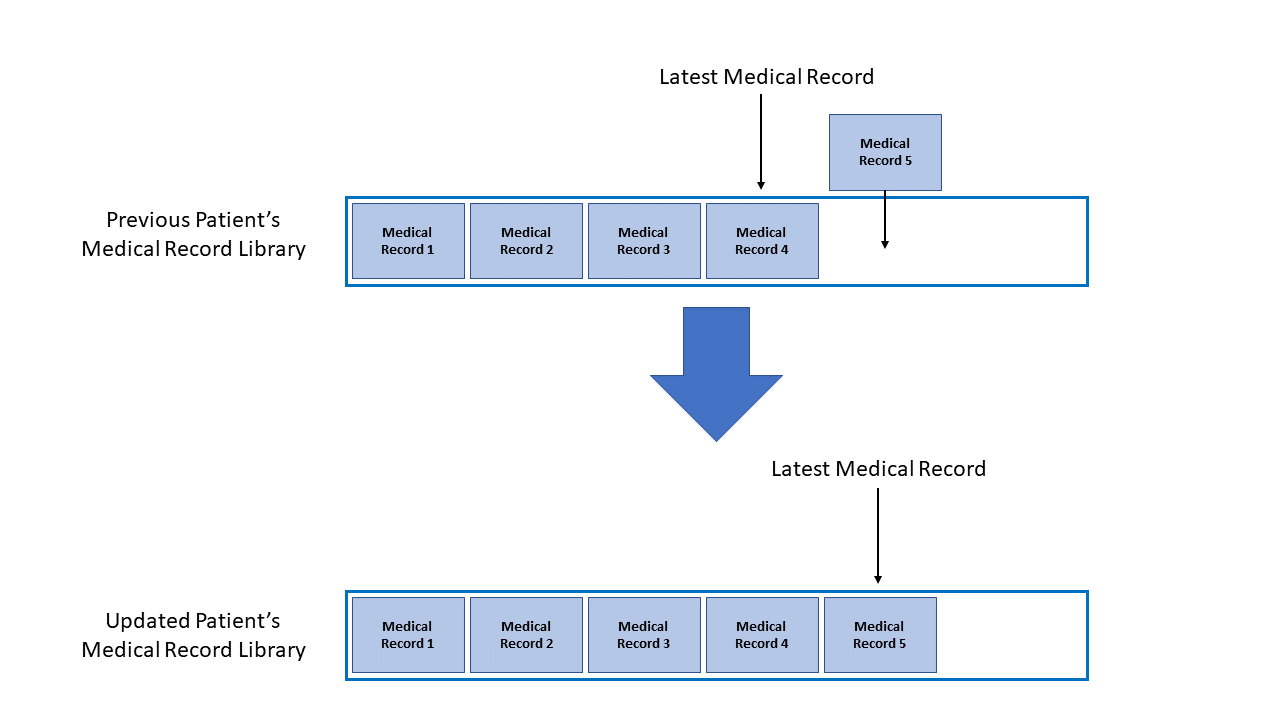
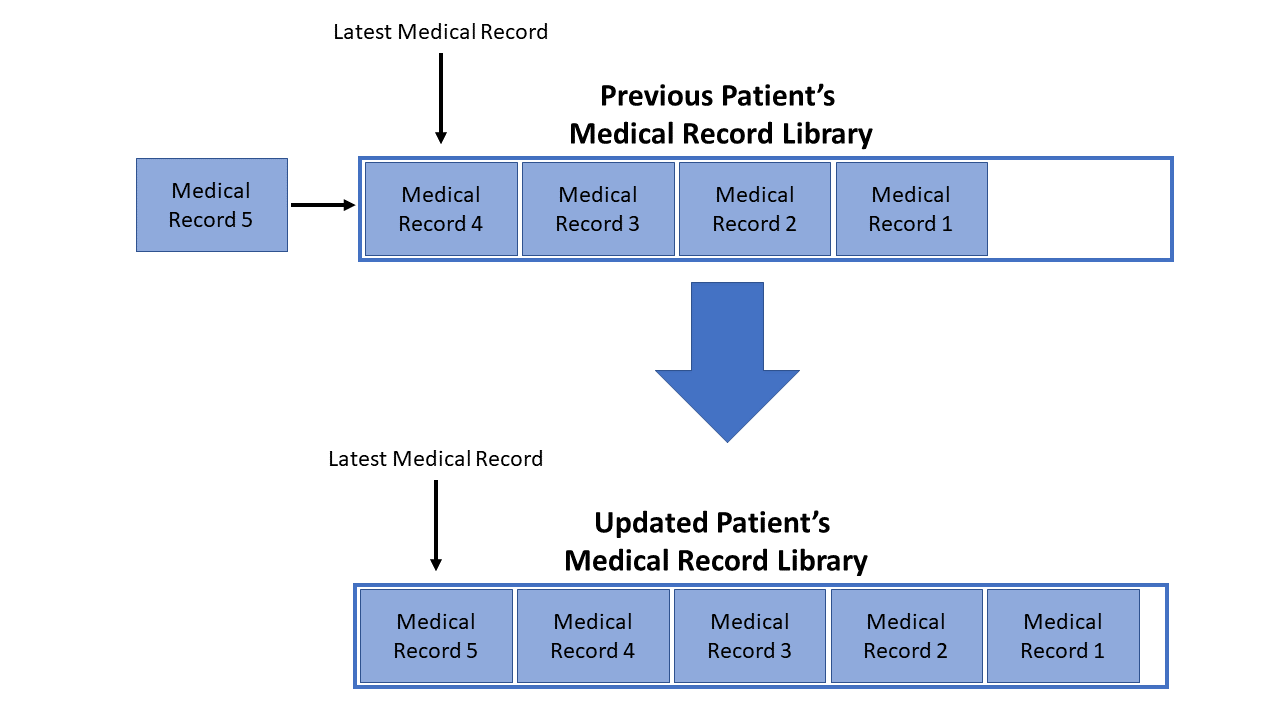
Rebuild pages at c2433ace1986578dbb67595963b2e0c320389854

diff --git a/DeveloperGuide.html b/DeveloperGuide.html
@@ -1321,10 +1321,10 @@ If no comment is given the default comment "-" is used.
 <p>If it was invalid, an exception message will be thrown and the <code>MedicalRecord</code> will not be added into the patient&#8217;s medical record library.</p>
 </div>
 <div class="paragraph">
-<p>Step 4. If the checks are successful, all the attributes of all the attributes of the specified person will first be copied, including the existing medical record library of the specified <code>Patient</code>.</p>
+<p>Step 4. If the checks are successful, all the attributes of the specified person will first be copied, including the existing medical record library of the specified <code>Patient</code>.</p>
 </div>
 <div class="paragraph">
-<p>Step 5. The new <code>MedicalRecord</code> will be added into the copied medical record library. The medical record library is an <code>ArrayList</code> of <code>MedicalRecord</code>. The new <code>MedicalRecord</code> is added to the back of the list and the pointer to the latest <code>MedicalRecord</code> is updated.</p>
+<p>Step 5. The new <code>MedicalRecord</code> will be added into the copied medical record library which is an <code>ArrayList</code> of <code>MedicalRecord</code>. The new <code>MedicalRecord</code> is added to the front of the list and since the pointer for the latest medical record is always pointing to the first element, the latest medical record will be automatically updated.</p>
 </div>
 <div class="imageblock">
 <div class="content">
@@ -1360,7 +1360,7 @@ If no comment is given the default comment "-" is used.
 <div class="ulist">
 <ul>
 <li>
-<p>Pros: Easy to access the most recent record by retrieving the last <code>MedicalRecord</code> in the ArrayList.</p>
+<p>Pros: Easy to access the most recent record by retrieving the first <code>MedicalRecord</code> in the ArrayList.</p>
 </li>
 <li>
 <p>Cons: Takes longer to retrieve the latest <code>MedicalRecord</code> before a specified date as each <code>MedicalRecord</code> has to be checked sequentially until the last <code>MedicalRecord</code> before the specified date is found.</p>
@@ -3336,4 +3336,4 @@ Expected: Similar to previous.</p>
 </div>
 </div>
 </div>
-</div></div><div id="footer"><div class="container"><div id="footer-text">Last updated 2018-10-25 05:29:33 UTC</div></div></div></body></html>
+</div></div><div id="footer"><div class="container"><div id="footer-text">Last updated 2018-10-25 11:06:03 UTC</div></div></div></body></html>

diff --git a/team/johndoe.html b/team/johndoe.html
@@ -520,4 +520,4 @@ If the <code>currentStatePointer</code> is at index <code>addressBookStateList.s
 <p><em>{Optionally, you may include other projects in your portfolio.}</em></p>
 </div>
 </div>
-</div></div><div id="footer"><div class="container"><div id="footer-text">Last updated 2018-10-25 05:29:33 UTC</div></div></div></body></html>
+</div></div><div id="footer"><div class="container"><div id="footer-text">Last updated 2018-10-25 11:06:03 UTC</div></div></div></body></html>

diff --git a/team/nelvintan.html b/team/nelvintan.html
@@ -504,4 +504,4 @@ If the <code>currentStatePointer</code> is at index <code>addressBookStateList.s
 <p><em>{Optionally, you may include other projects in your portfolio.}</em></p>
 </div>
 </div>
-</div></div><div id="footer"><div class="container"><div id="footer-text">Last updated 2018-10-25 05:29:33 UTC</div></div></div></body></html>
+</div></div><div id="footer"><div class="container"><div id="footer-text">Last updated 2018-10-25 11:06:03 UTC</div></div></div></body></html>

diff --git a/LearningOutcomes.html b/LearningOutcomes.html
@@ -542,4 +542,4 @@ class gives some examples of how to use <em>Equivalence Partitions</em>, <em>Bou
 </div>
 </div>
 </div>
-</div></div><div id="footer"><div class="container"><div id="footer-text">Last updated 2018-10-25 05:29:33 UTC</div></div></div></body></html>
+</div></div><div id="footer"><div class="container"><div id="footer-text">Last updated 2018-10-25 11:06:03 UTC</div></div></div></body></html>

diff --git a/UsingGradle.html b/UsingGradle.html
@@ -255,4 +255,4 @@ See <code>build.gradle</code> &#8594; <code>allprojects</code> &#8594; <code>dep
 </ul>
 </div>
 </div>
-</div></div><div id="footer"><div class="container"><div id="footer-text">Last updated 2018-10-25 05:29:33 UTC</div></div></div></body></html>
+</div></div><div id="footer"><div class="container"><div id="footer-text">Last updated 2018-10-25 11:06:03 UTC</div></div></div></body></html>

diff --git a/UsingNetlify.html b/UsingNetlify.html
@@ -123,4 +123,4 @@ The publish directory is the directory in which the built HTML documentation res
 </ol>
 </div>
 </div>
-</div></div><div id="footer"><div class="container"><div id="footer-text">Last updated 2018-10-25 05:29:33 UTC</div></div></div></body></html>
+</div></div><div id="footer"><div class="container"><div id="footer-text">Last updated 2018-10-25 11:06:03 UTC</div></div></div></body></html>

diff --git a/UsingCoveralls.html b/UsingCoveralls.html
@@ -96,4 +96,4 @@ If you have not set up Travis CI, see <a href="UsingTravis.html">UsingTravis.ado
 </ol>
 </div>
 </div>
-</div></div><div id="footer"><div class="container"><div id="footer-text">Last updated 2018-10-25 05:29:33 UTC</div></div></div></body></html>
+</div></div><div id="footer"><div class="container"><div id="footer-text">Last updated 2018-10-25 11:06:03 UTC</div></div></div></body></html>

diff --git a/UsingTravis.html b/UsingTravis.html
@@ -280,4 +280,4 @@ Suggested change: Remove the codacy badge from <code>README</code>.</p>
 </div>
 </div>
 </div>
-</div></div><div id="footer"><div class="container"><div id="footer-text">Last updated 2018-10-25 05:29:33 UTC</div></div></div></body></html>
+</div></div><div id="footer"><div class="container"><div id="footer-text">Last updated 2018-10-25 11:06:03 UTC</div></div></div></body></html>

diff --git a/HelpWindow.html b/HelpWindow.html
@@ -780,4 +780,4 @@ e.g. `update 2 d/22.11.2018 dg/flu tr/tamiflu</code></p>
 </ul>
 </div>
 </div>
-</div></div><div id="footer"><div class="container"><div id="footer-text">Last updated 2018-10-25 05:29:33 UTC</div></div></div></body></html>
+</div></div><div id="footer"><div class="container"><div id="footer-text">Last updated 2018-10-25 11:06:03 UTC</div></div></div></body></html>

diff --git a/UserGuide.html b/UserGuide.html
@@ -780,4 +780,4 @@ e.g. `update 2 d/22.11.2018 dg/flu tr/tamiflu</code></p>
 </ul>
 </div>
 </div>
-</div></div><div id="footer"><div class="container"><div id="footer-text">Last updated 2018-10-25 05:29:33 UTC</div></div></div></body></html>
+</div></div><div id="footer"><div class="container"><div id="footer-text">Last updated 2018-10-25 11:06:03 UTC</div></div></div></body></html>

diff --git a/UsingCheckstyle.html b/UsingCheckstyle.html
@@ -91,4 +91,4 @@ Restart the IDE to complete the installation.</p>
 </ul>
 </div>
 </div>
-</div></div><div id="footer"><div class="container"><div id="footer-text">Last updated 2018-10-25 05:29:33 UTC</div></div></div></body></html>
+</div></div><div id="footer"><div class="container"><div id="footer-text">Last updated 2018-10-25 11:06:03 UTC</div></div></div></body></html>

diff --git a/AboutUs.html b/AboutUs.html
@@ -110,4 +110,4 @@ Responsibilities: Testing</p>
 <hr>
 </div>
 </div>
-</div></div><div id="footer"><div class="container"><div id="footer-text">Last updated 2018-10-25 05:29:33 UTC</div></div></div></body></html>
+</div></div><div id="footer"><div class="container"><div id="footer-text">Last updated 2018-10-25 11:06:03 UTC</div></div></div></body></html>
